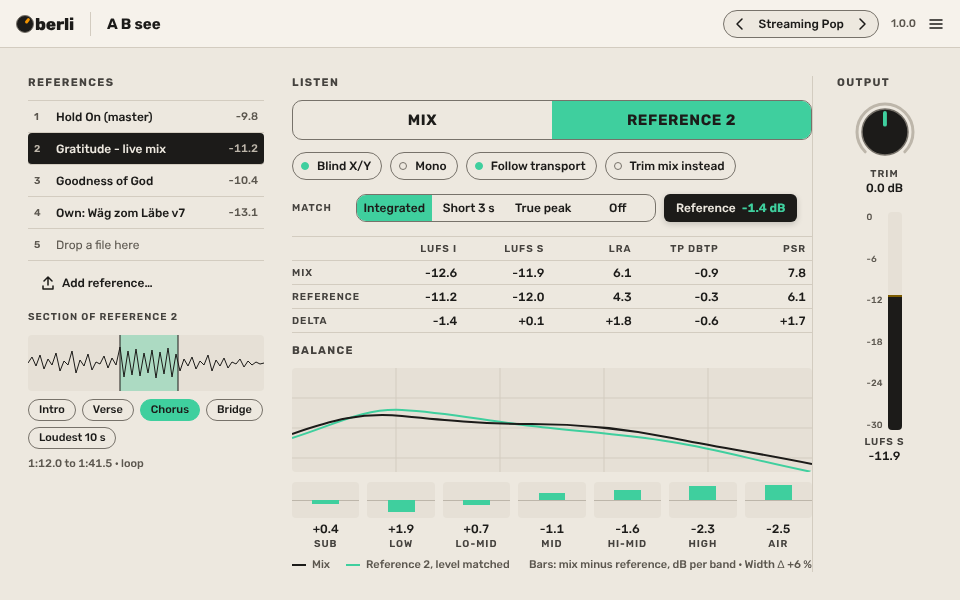
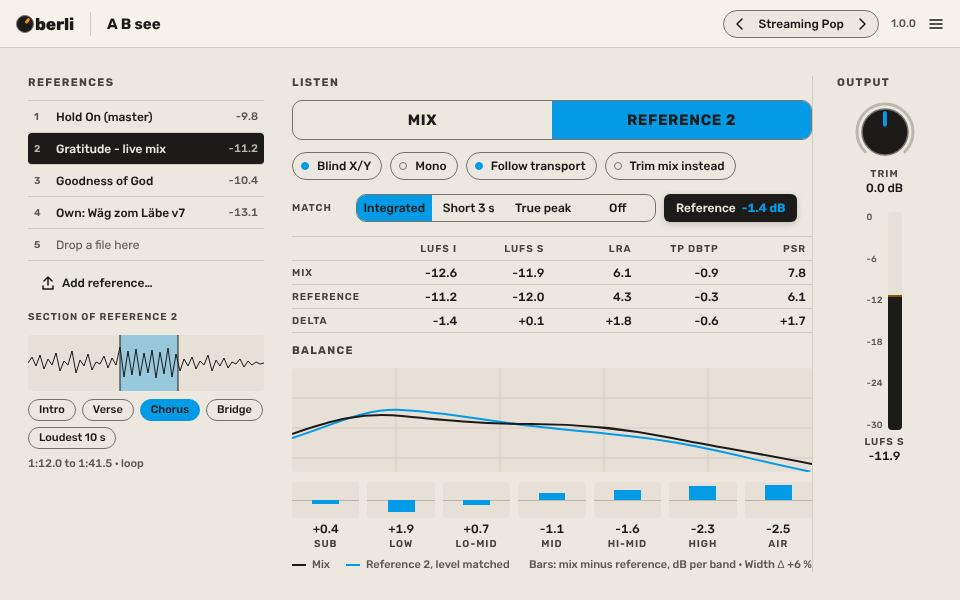
Category accent: peacock (analysis and monitoring)
Oberli Audio moves from one accent per plugin to one accent per category
(decided 2026-11-01): mango brand, tangerine instruments, banana creative
effects, sage mix tools, peacock analysis and monitoring. CLAUDE.md and
the sketch frames updated; the registry and brand sheet follow in
bob-skills.

Claude-Session: https://claude.ai/code/session_01L1he38gxGMRoz4WAYr3LiS

diff --git a/docs/sketch.md b/docs/sketch.md
@@ -1,6 +1,6 @@
 # A B see - loudness-matched reference A/B (Tier S sketch)
 
-Tier S, gate G0-G2 sketch. Oberli Audio effect, Bone theme, accent jade #3FCF9E (check the Design System artifact that jade is still unassigned; Horizon Pad holds mango). Static frame: `a-b-see@1x.png` (960 x 600 at 100 %), `a-b-see@2x.png` for Retina viewing. Sound side: sound-design-bob is needed for the loudness measurement, the gain smoothing and the file streaming; this sketch states what the DSP must do, not how.
+Tier S, gate G0-G2 sketch. Oberli Audio effect, Bone theme, accent Peacock #039BE5 (analysis and monitoring, category scheme confirmed 2026-11-01). Static frame: `a-b-see@1x.png` (960 x 600 at 100 %), `a-b-see@2x.png` for Retina viewing. Sound side: sound-design-bob is needed for the loudness measurement, the gain smoothing and the file streaming; this sketch states what the DSP must do, not how.
 
 ## 1. G0 brief
 
@@ -30,7 +30,7 @@ Tier S, gate G0-G2 sketch. Oberli Audio effect, Bone theme, accent jade #3FCF9E 
 
 1. **Window** 960 x 600 at 100 %, Bone, compact: Bone glares beside a dark DAW, so the analyser well stays the only large sunken area and nothing goes brighter than `surface-raised`.
 2. **Hero** is what the ear cannot judge: the seven band deltas and the match readout "Reference -1.4 dB". The Listen switch is big because the hand needs it, but it carries no information.
-3. **Accent** jade, only on what is active: the selected Listen segment, lit LEDs, the chosen section chip, the reference curve, the delta bars, the knob pointer and the readout's delta value (on Bone the readout is the charcoal bubble, so accent text is allowed there, 4.9:1 against #1C1B19).
+3. **Accent** Peacock, only on what is active: the selected Listen segment, lit LEDs, the chosen section chip, the reference curve, the delta bars, the knob pointer and the readout's delta value (on Bone the readout is the charcoal bubble, so accent text is allowed there, 4.9:1 against #1C1B19).
 4. **Sections** from the parameter table's group order: References, Listen, Balance, Output. Output column last on the right with Trim at 64 px and the LUFS S meter; no Mix knob because this plugin has no wet path (one line to add to the brand sheet: utility plugins without a wet path omit Mix; the output column holds their output knob and meter).
 5. **States**: modified (preset pill dims when the match mode or slot differs from the preset), drawer (preset drawer from the left, 380 px), About (charcoal page behind the effect), bypass (hard bypass = wire), rendering (header shows "Rendering" in `ink-subtle`, Listen segment greyed), blind (Listen reads X / Y, slot names hidden, tally in the readout), no reference loaded (Listen segment disabled, "Drop a file here" row stays visible).
 
@@ -138,7 +138,7 @@ reference RAM ─ section loop / transport map ─ gain (match) ─ meter ─┘
 
 ## 7. Open decisions for Björn
 - Name: A B see (decided 2026-11-01). Slug `a-b-see`, plugin ID `ABSee`, folders "A B see".
-- Accent: jade proposed; confirm against the artifact.
+- Accent: Peacock #039BE5, by the category scheme (decided 2026-11-01): one accent per category, analysis and monitoring.
 - Should "Trim mix instead" default to on for mastering use? The sketch says off because the promise of the Listen switch is "the reference comes to you".
 - Section markers per reference (four) or global (one set for all)? The sketch says per reference; a chorus sits at a different time in every song.
 - Tier: P as the default, F if it becomes Björn's daily tool for the worship masters (it probably will).

diff --git a/CLAUDE.md b/CLAUDE.md
@@ -6,7 +6,7 @@ Guidance for Claude Code in this repository.
 
 A B see (Oberli Audio), an effect plugin (VST3; the formats ship.toml lists), built with
 JUCE pinned by commit (CMakeLists.txt) and started from the family template
-(Oberli-Audio/plugin-template). Theme bone, accent jade (#3FCF9E), plugin code
+(Oberli-Audio/plugin-template). Theme bone, accent peacock (#039BE5; category accent for analysis and monitoring, decided 2026-11-01, registry update pending in bob-skills), plugin code
 `Abse`, bundle id `com.oberliaudio.absee`: all from the family registry (ship-bob
 `registry/plugins.toml`), never changed after the first release.
 
